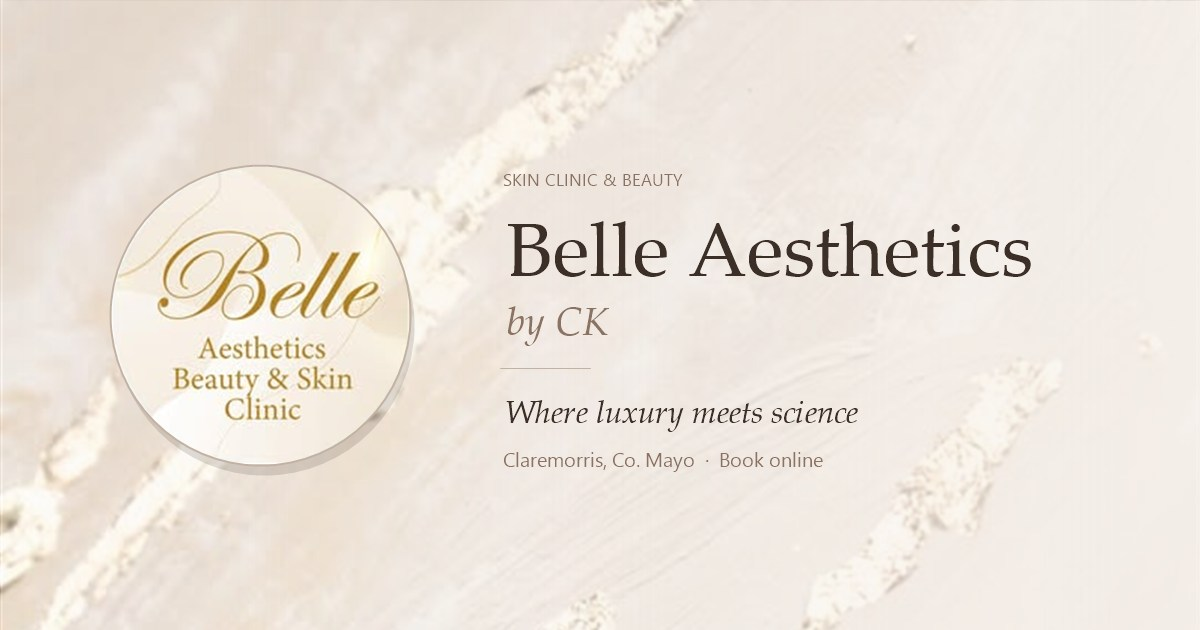
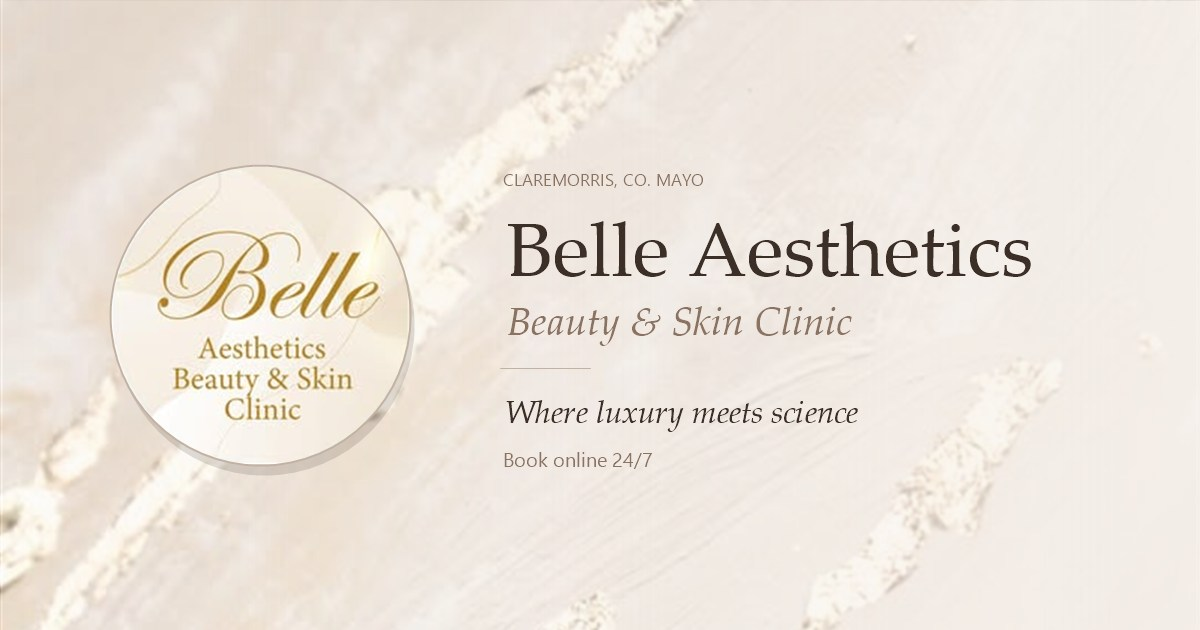
Use the business name Belle Aesthetics, Beauty & Skin Clinic

Changed region(s): [[0.4008, 0.4825, 0.7092, 0.5429], [0.4008, 0.7238, 0.6783, 0.754], [0.4008, 0.2714, 0.5858, 0.3016]]

diff --git a/index.html b/index.html
@@ -5,18 +5,18 @@
 <meta name="viewport" content="width=device-width, initial-scale=1">
 <!-- Draft: remove this tag when the site goes live -->
 <meta name="robots" content="noindex, nofollow">
-<title>Belle Aesthetics by CK | Claremorris</title>
-<meta name="description" content="Belle Aesthetics by CK – skin clinic and beauty salon in Claremorris, Co. Mayo. Advanced facials, laser, brows, lashes, nails and semi-permanent makeup.">
+<title>Belle Aesthetics | Beauty &amp; Skin Clinic, Claremorris</title>
+<meta name="description" content="Belle Aesthetics – Beauty &amp; Skin Clinic in Claremorris, Co. Mayo. Advanced facials, laser, brows, lashes, nails and semi-permanent makeup.">
 <!-- Share card (link previews on WhatsApp, Facebook, X, iMessage etc.) -->
 <meta property="og:type" content="website">
-<meta property="og:site_name" content="Belle Aesthetics by CK">
-<meta property="og:title" content="Belle Aesthetics by CK | Claremorris">
-<meta property="og:description" content="Skin clinic & beauty in Claremorris, Co. Mayo: facials, laser, brows, lashes, nails and more. Book online.">
+<meta property="og:site_name" content="Belle Aesthetics">
+<meta property="og:title" content="Belle Aesthetics | Beauty &amp; Skin Clinic, Claremorris">
+<meta property="og:description" content="Beauty &amp; Skin Clinic in Claremorris, Co. Mayo: facials, laser, brows, lashes, nails and more. Book online.">
 <meta property="og:url" content="https://thespectrumtechengine.com/belle-aesthetics/">
 <meta property="og:image" content="https://thespectrumtechengine.com/belle-aesthetics/images/share.jpg">
 <meta property="og:image:width" content="1200">
 <meta property="og:image:height" content="630">
-<meta property="og:image:alt" content="Belle Aesthetics by CK logo with the words Where luxury meets science">
+<meta property="og:image:alt" content="Belle Aesthetics Beauty &amp; Skin Clinic logo with the words Where luxury meets science">
 <meta name="twitter:card" content="summary_large_image">
 <link rel="icon" href="images/logo.jpg">
 <link rel="preconnect" href="https://fonts.googleapis.com">
@@ -56,7 +56,10 @@
   .logo { font-family: "Cormorant Garamond", serif; font-size: 1.6rem; text-decoration: none; color: var(--espresso); letter-spacing: .02em; }
   .logo { display: flex; align-items: center; gap: 12px; }
   .logo img { width: 48px; height: 48px; border-radius: 50%; box-shadow: 0 2px 8px -2px rgba(59,47,40,.3); }
-  .logo span { font-style: italic; color: var(--mocha); }
+  .logo-text { display: flex; flex-direction: column; line-height: 1.05; }
+  .logo-text em { color: var(--mocha); }
+  .logo-text small { font-family: "Jost", sans-serif; font-size: .62rem; letter-spacing: .22em; text-transform: uppercase; color: var(--mocha); margin-top: 4px; }
+  footer .logo-text em, footer .logo-text small { color: var(--taupe); }
   .nav ul { display: flex; gap: 32px; list-style: none; align-items: center; }
   .nav ul a { text-decoration: none; font-size: .88rem; letter-spacing: .06em; }
   .nav ul a:not(.btn):hover { color: var(--mocha); }
@@ -185,7 +188,7 @@
 
 <header>
   <nav class="wrap nav">
-    <a href="#top" class="logo"><img src="images/logo.jpg" alt="">Belle <span>Aesthetics</span></a>
+    <a href="#top" class="logo"><img src="images/logo.jpg" alt=""><span class="logo-text"><span>Belle <em>Aesthetics</em></span><small>Beauty &amp; Skin Clinic</small></span></a>
     <button class="menu-toggle" aria-label="Open menu" aria-expanded="false">&#9776;</button>
     <ul id="menu">
       <li><a href="#about">About</a></li>
@@ -201,9 +204,9 @@
   <section class="hero">
     <div class="wrap hero-grid">
       <div class="reveal">
-        <span class="eyebrow">Skin Clinic &amp; Beauty · Claremorris, Co. Mayo</span>
+        <span class="eyebrow">Beauty &amp; Skin Clinic · Claremorris, Co. Mayo</span>
         <h1>Healthy skin,<br><em>beautifully</em> yours.</h1>
-        <p class="lead">Advanced facials, laser treatments, brows, lashes, nails and semi-permanent makeup, delivered with care at Belle Aesthetics by CK.</p>
+        <p class="lead">Advanced facials, laser treatments, brows, lashes, nails and semi-permanent makeup, delivered with care at Belle Aesthetics.</p>
         <div class="hero-actions">
           <a class="btn btn-dark" href="https://phorest.com/book/salons/belleaesthetics1" target="_blank" rel="noopener">Book an Appointment</a>
           <a class="btn btn-line" href="#prices">View Prices</a>
@@ -229,7 +232,7 @@
       <div class="reveal">
         <span class="eyebrow">Welcome to Belle</span>
         <h2>Your skin clinic in the heart of Claremorris</h2>
-        <p>Belle Aesthetics by CK is a skin and beauty clinic at Silverbridge Plaza, Claremorris. From a relaxing spa facial to a full course of laser or microneedling, every treatment starts with understanding your skin and your goals.</p>
+        <p>Belle Aesthetics is a beauty &amp; skin clinic at Silverbridge Plaza, Claremorris. From a relaxing spa facial to a full course of laser or microneedling, every treatment starts with understanding your skin and your goals.</p>
         <p>Not sure where to begin? Book a skin consultation and we'll build a plan that suits you.</p>
         <div class="pillars">
           <div class="pillar"><h3>Consult</h3><p>Personal skin assessment before you start.</p></div>
@@ -328,15 +331,15 @@
   <div class="wrap">
     <div class="foot">
       <div>
-        <a href="#top" class="logo"><img src="images/logo.jpg" alt="">Belle <span>Aesthetics</span></a>
-        <p style="margin-top:8px">Skin Clinic &amp; Beauty · Claremorris, Co. Mayo</p>
+        <a href="#top" class="logo"><img src="images/logo.jpg" alt=""><span class="logo-text"><span>Belle <em>Aesthetics</em></span><small>Beauty &amp; Skin Clinic</small></span></a>
+        <p style="margin-top:8px">Claremorris, Co. Mayo</p>
       </div>
       <div class="socials">
         <a href="https://www.facebook.com/p/Belle-Aesthetics-by-CK-100088218462569/" target="_blank" rel="noopener" aria-label="Facebook"><svg width="18" height="18" viewBox="0 0 24 24" fill="currentColor"><path d="M14 8h3V4h-3a4 4 0 0 0-4 4v2H8v4h2v8h4v-8h3l1-4h-4V8z"/></svg></a>
         <a href="https://www.instagram.com/belleaesthetics_skinclinic/" target="_blank" rel="noopener" aria-label="Instagram"><svg width="18" height="18" viewBox="0 0 24 24" fill="none" stroke="currentColor" stroke-width="1.8"><rect x="3" y="3" width="18" height="18" rx="5"/><circle cx="12" cy="12" r="4"/><circle cx="17.5" cy="6.5" r=".8" fill="currentColor"/></svg></a>
       </div>
     </div>
-    <div class="copy">© <span id="yr"></span> Belle Aesthetics by CK. All rights reserved.</div>
+    <div class="copy">© <span id="yr"></span> Belle Aesthetics, Beauty &amp; Skin Clinic. All rights reserved.</div>
   </div>
 </footer>
 
